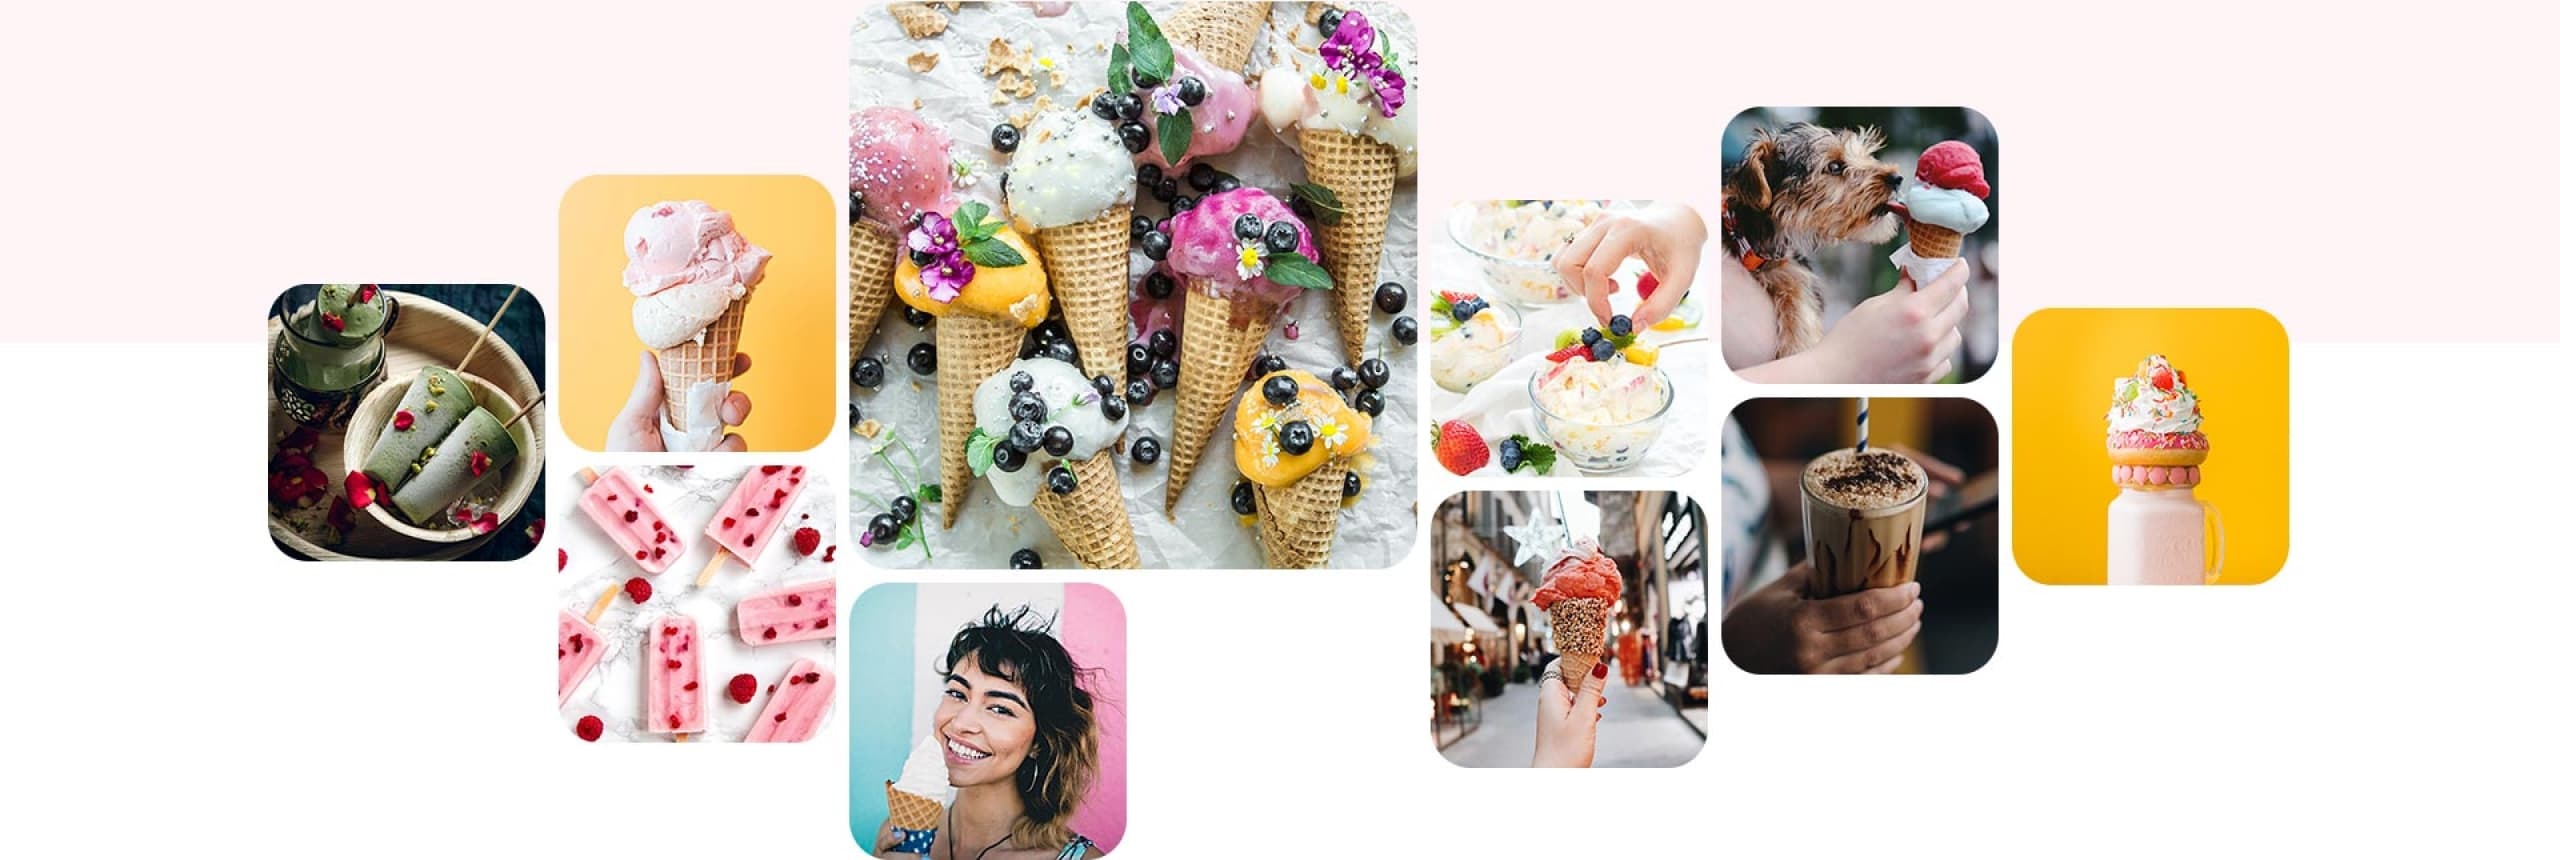
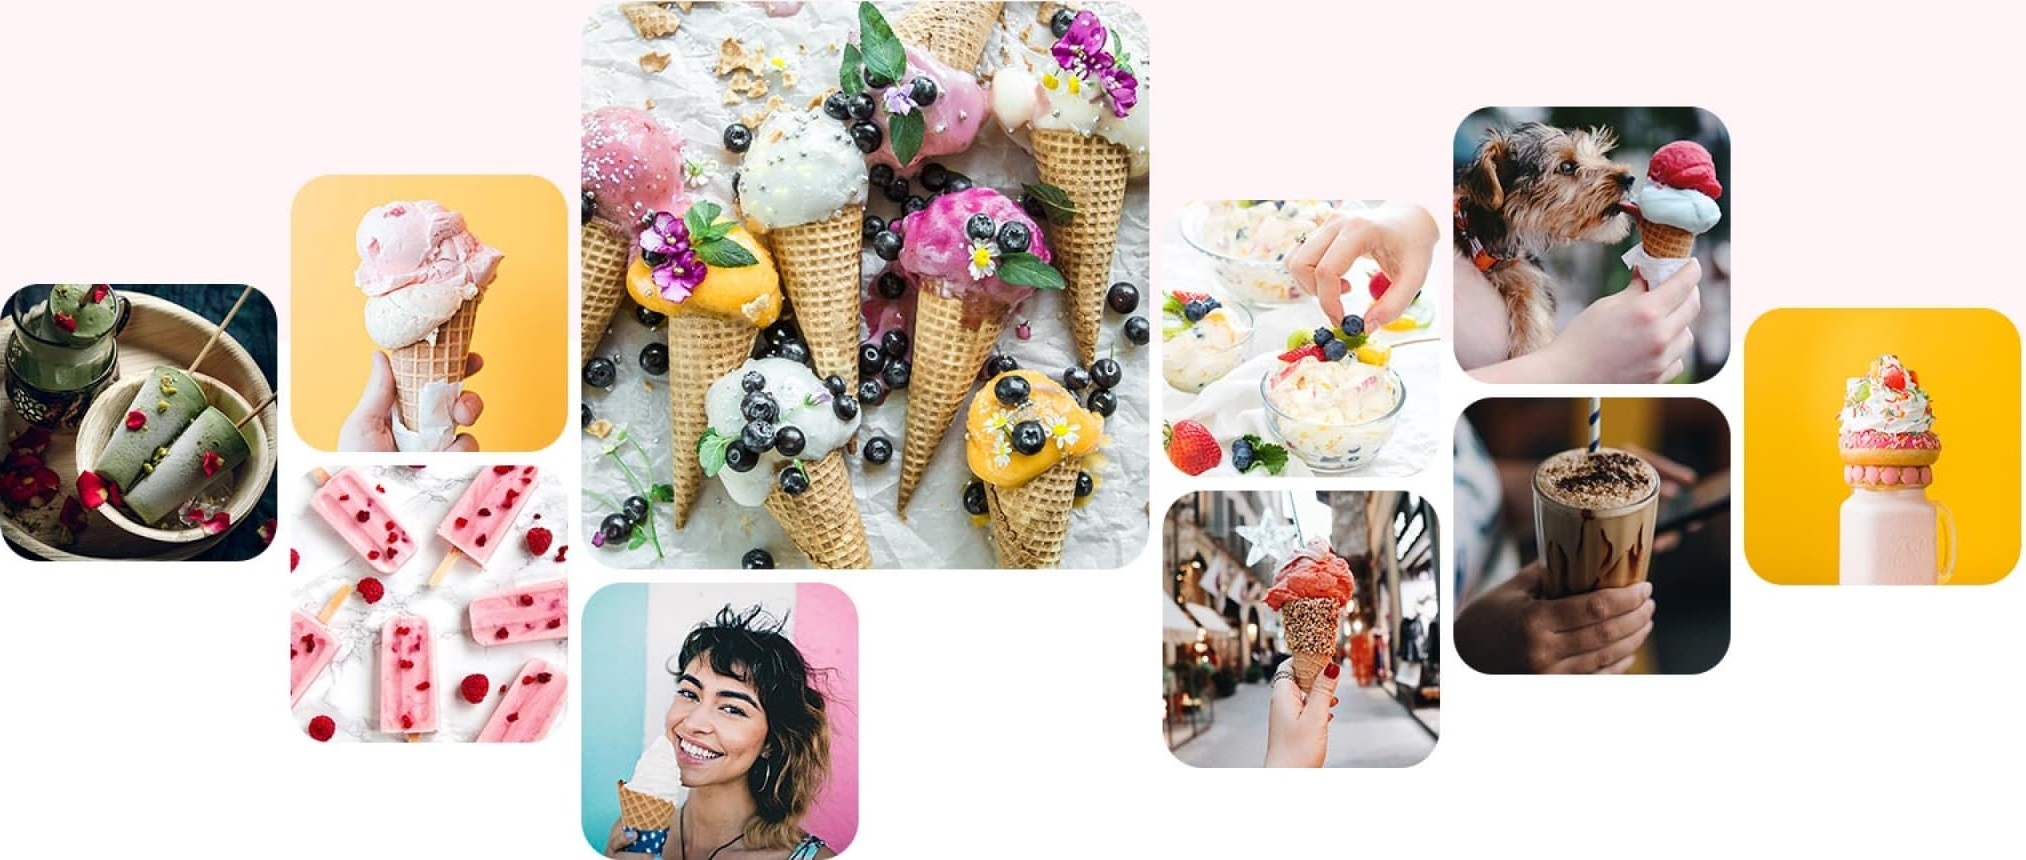
fix

diff --git a/src/sass/layout/_gallery.scss b/src/sass/layout/_gallery.scss
@@ -1,6 +1,6 @@
 .gallery {
   background-image: linear-gradient(
-    var(--bg-primary-color) 41%, var(--bg-secondary-color) 41%);
+    var(--bg-primary-color) 36%, var(--bg-secondary-color) 36%);
   height: 122px;
 
   @media screen and (min-width: 768px) and (max-width: (1280px - 0.02px)) {
@@ -13,5 +13,7 @@
 }
 
 .gallery__collage {
+  height: 100%;
+  width: auto;
   margin: 0 auto;
 }

diff --git a/src/partials/gallery.html b/src/partials/gallery.html
@@ -28,9 +28,9 @@
       />
       <img
         class="gallery__collage"
-        src="./images/mobile/collage-mob@1x.jpg"
+        src=""
         alt="Фото людей с мороженным"
-        width="280"
+        width="288"
         height="122"
       />
     </picture>
